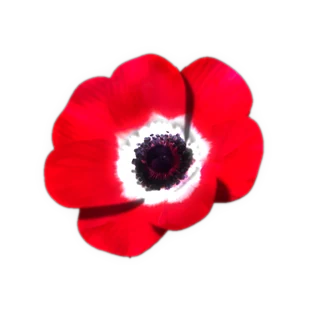
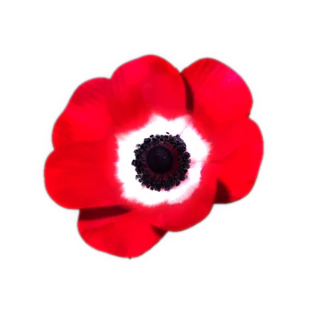
psyche-0.com: the anemone's centres in the real flowers' own colours, the grey ring round the scarlet eyes gone, the white-violet wash complete and its lower petal clean, the lilac stamens and wash finer, the white/red-ring eye kept inside its white ring

diff --git a/assets/anemone.js b/assets/anemone.js
@@ -4,7 +4,7 @@
 (function(){
   var mark=document.querySelector("header.site .bar a.mark");
   if(!mark||document.querySelector(".anemone"))return;
-  var M={"size":320,"na":72,"ext":149,"looks":[{"name":"S_L","er":29.21,"prof":[130.4,129.8,128.3,123.7,107.9,108.8,107.9,106.7,105.5,101.9,97.3,94.3,92.2,89.4,84.3,78.2,71.9,63.7,58.5,54.0,52.8,55.2,59.1,63.4,67.6,70.9,72.8,74.3,75.5,77.3,83.7,93.1,102.5,109.5,113.7,116.4,121.0,123.1,121.0,111.3,97.0,103.4,115.2,119.5,115.8,113.1,111.6,107.9,100.7,96.1,96.7,97.9,97.3,96.1,95.8,97.9,101.0,102.8,101.9,100.4,108.5,115.5,118.5,121.0,123.7,123.7,119.8,113.1,108.2,123.1,128.3,129.8]},{"name":"S_F","er":30.79,"prof":[106.3,99.3,99.9,102.4,103.2,103.2,102.4,99.3,94.7,93.1,99.3,102.4,103.5,104.5,105.0,105.0,104.5,102.4,100.4,96.8,92.6,96.0,99.1,101.7,101.7,101.1,99.3,96.0,92.1,87.4,83.0,89.8,96.5,101.9,104.8,105.0,105.0,105.0,104.3,101.9,97.5,98.8,102.2,103.7,103.5,104.0,104.3,104.5,102.7,100.6,97.5,91.3,86.9,90.5,93.9,96.8,98.3,99.3,98.3,96.0,93.4,89.8,84.9,91.8,100.9,105.8,109.4,112.0,112.5,113.3,112.5,110.7]},{"name":"S_R","er":27.28,"prof":[101.3,98.9,97.9,96.0,94.2,89.2,82.9,74.5,68.9,71.0,72.4,72.6,72.4,72.6,72.9,73.1,72.1,72.4,78.4,85.5,93.7,99.7,102.6,104.5,106.3,109.2,110.8,110.2,107.3,101.0,97.1,108.7,114.2,117.6,117.6,116.8,114.7,108.9,110.2,111.8,112.1,110.2,108.9,110.0,110.8,109.7,106.8,101.8,98.1,102.3,104.5,104.7,106.6,106.8,103.9,98.9,93.7,96.6,107.1,113.9,115.8,116.0,116.3,116.6,114.4,111.6,104.7,98.9,103.9,104.7,104.5,103.1]},{"name":"W_R","er":32.65,"prof":[112.7,115.2,119.1,119.9,119.1,117.9,115.4,109.4,99.9,93.2,99.4,102.7,103.7,102.7,99.2,93.9,90.4,86.9,82.7,77.4,80.4,82.4,84.2,86.7,88.9,89.7,89.2,87.4,86.7,85.9,85.9,84.7,82.9,80.7,75.9,68.2,74.9,82.7,89.2,93.9,97.7,100.2,103.2,103.9,101.9,105.2,110.2,112.4,110.9,108.2,105.4,101.4,94.4,103.9,110.9,113.4,114.7,113.9,113.9,114.7,114.4,107.9,95.4,93.4,101.9,107.9,113.2,116.1,116.9,117.1,118.1,116.1]},{"name":"W_F","er":29.98,"prof":[111.1,108.5,102.4,94.5,97.6,102.4,105.5,105.2,104.5,104.0,101.7,98.1,92.7,86.9,85.4,87.4,88.2,88.7,89.4,89.7,89.7,87.6,84.3,80.0,77.5,86.1,92.7,97.6,100.4,102.9,104.5,105.5,105.0,103.7,102.2,100.4,97.1,90.7,93.8,98.9,102.2,104.2,105.2,105.7,104.0,100.1,100.4,105.2,106.5,106.8,106.8,106.0,103.4,100.9,96.8,89.9,92.2,100.9,105.7,108.0,108.8,109.6,109.6,108.8,106.5,104.0,102.4,107.5,110.1,111.9,112.9,112.6]},{"name":"W_L","er":27.5,"prof":[86.4,86.7,90.1,94.1,94.6,93.5,90.7,84.1,77.6,73.9,72.5,70.8,69.3,67.1,64.5,61.7,64.5,67.1,70.5,73.6,77.9,81.6,83.8,85.3,85.8,86.7,89.0,91.5,94.4,94.9,93.5,87.0,84.7,98.6,114.0,121.4,125.9,125.3,120.8,123.9,124.2,119.7,114.5,111.7,108.6,102.0,93.2,96.6,108.9,113.4,116.5,119.4,119.9,120.2,121.4,122.5,118.8,110.6,114.8,120.8,123.3,122.8,122.2,122.8,122.5,118.8,114.5,116.8,116.2,114.8,110.3,98.1]},{"name":"P_L","er":31.34,"prof":[115.1,108.5,117.6,125.0,129.3,131.0,130.4,128.2,119.0,111.4,102.8,92.0,83.2,80.6,77.8,73.5,70.1,68.4,66.9,65.5,63.8,61.5,60.9,63.2,64.6,67.8,70.9,74.3,79.2,85.7,92.8,98.3,101.4,104.0,107.1,107.1,104.5,101.4,109.4,117.6,123.9,125.6,123.3,116.5,107.4,91.4,101.4,106.5,107.4,107.7,107.4,106.2,104.2,102.0,99.7,99.7,101.4,104.0,106.8,109.4,108.5,107.7,106.5,105.7,103.7,98.8,107.4,113.6,116.5,116.2,115.9,116.2]},{"name":"P_F","er":33.0,"prof":[97.3,98.8,98.3,97.0,96.0,94.0,90.2,85.6,87.1,93.0,97.5,101.6,103.7,104.2,104.7,105.7,104.7,101.9,97.0,91.4,84.6,83.0,89.6,93.0,94.2,95.5,96.3,96.3,95.5,93.5,99.1,104.7,108.0,110.5,112.1,111.8,111.3,109.5,106.2,101.1,94.5,96.3,100.1,101.1,100.9,101.1,101.1,99.1,96.0,91.7,88.4,95.8,100.9,103.4,104.9,107.0,108.2,108.2,106.2,102.6,96.5,100.9,104.7,106.7,108.0,109.5,110.3,109.8,107.5,102.9,95.8,94.7]},{"name":"P_R","er":31.89,"prof":[96.5,92.3,87.7,84.0,80.7,76.8,72.1,69.3,72.6,76.5,80.1,82.7,85.3,88.7,91.0,92.9,93.9,95.4,97.0,97.0,94.4,95.7,99.9,104.3,107.9,110.2,111.8,113.1,112.6,109.2,100.1,79.6,92.9,104.3,112.8,116.7,117.5,117.0,114.4,111.8,108.9,104.8,101.9,103.5,103.7,103.0,101.9,100.9,96.7,90.8,83.5,93.1,103.5,109.5,112.8,112.6,111.8,110.7,109.5,105.0,103.2,110.0,113.3,114.9,115.4,115.4,113.9,108.9,102.2,98.3,99.1,98.6]},{"name":"C_R","er":43.51,"prof":[109.8,109.2,107.1,106.6,106.4,103.7,99.0,91.9,82.5,82.8,84.3,85.4,85.4,85.1,84.9,84.3,82.5,88.8,95.6,102.7,108.2,110.3,111.6,112.4,113.9,113.9,111.9,106.6,95.9,101.6,108.4,112.1,113.2,111.6,110.0,106.6,99.0,100.9,101.6,101.4,99.3,97.2,96.7,97.2,97.7,96.4,93.3,88.5,83.8,88.0,90.6,91.7,92.7,94.8,95.4,93.3,89.6,85.1,84.3,97.2,106.6,110.3,111.6,112.9,113.9,113.7,112.9,109.0,101.9,106.1,108.7,110.3]},{"name":"C_F","er":42.02,"prof":[100.7,93.7,95.7,97.8,98.3,98.3,97.6,95.0,90.8,86.2,93.7,97.8,99.6,100.4,101.2,102.2,102.2,101.7,99.6,97.6,92.9,93.2,97.3,100.9,102.7,102.7,101.7,99.6,96.8,92.4,87.5,90.3,98.1,104.0,107.9,109.7,109.7,109.7,109.5,107.1,102.5,104.0,107.6,108.2,108.2,108.4,108.7,107.9,105.8,103.2,98.6,90.1,91.3,95.0,97.3,99.1,100.1,99.1,96.8,93.7,90.1,85.1,85.7,95.2,101.4,105.1,107.6,108.7,109.2,108.9,107.9,105.6]},{"name":"C_L","er":43.61,"prof":[117.4,118.9,120.4,120.4,119.2,113.5,102.1,106.0,106.3,106.6,105.7,103.9,101.2,100.0,98.8,97.0,92.5,87.4,82.3,75.1,70.3,67.0,70.3,76.0,82.3,86.5,88.6,90.1,91.9,96.1,105.7,115.0,121.6,124.9,127.6,131.5,130.9,124.9,107.2,103.3,115.0,119.5,117.4,112.0,109.0,104.5,96.4,89.2,88.6,88.0,86.8,84.4,82.9,82.6,83.2,85.6,86.5,85.6,83.5,86.8,92.8,97.3,100.3,102.7,105.4,107.5,105.7,102.4,97.3,92.2,108.1,114.7]}],"rot":[15.0,-45.0,45.0,-35.0,-40.0,35.0,-25.0,0.0,30.0,20.0,-15.0,0.0]};
+  var M={"size":320,"na":72,"ext":149,"looks":[{"name":"S_L","er":30.86,"prof":[128.5,129.1,128.2,124.8,114.9,108.5,109.4,108.2,107.0,104.9,101.0,97.3,95.5,93.1,89.2,82.5,76.5,68.9,63.2,58.0,56.2,58.6,62.9,68.0,71.6,74.4,76.2,77.7,78.9,81.3,89.2,98.5,107.3,111.8,115.5,118.8,122.7,123.0,118.2,104.9,94.0,108.8,115.8,117.3,112.8,110.3,107.9,104.0,93.4,93.1,93.7,93.7,93.1,92.2,91.9,94.0,96.7,98.8,97.6,95.8,104.0,110.6,114.3,116.7,119.7,120.6,117.6,112.5,104.6,116.7,125.1,127.9]},{"name":"S_F","er":32.49,"prof":[106.4,100.4,99.1,101.7,102.7,103.2,102.2,99.9,95.5,91.3,99.1,102.7,104.3,104.8,106.1,106.4,106.1,103.8,101.7,98.6,93.9,97.3,100.7,103.2,103.5,102.7,100.7,97.8,93.2,88.5,84.9,91.6,98.6,103.2,105.6,105.8,106.1,105.8,104.5,101.7,96.8,99.9,102.7,103.5,103.2,103.8,104.0,103.5,102.2,99.4,95.7,88.8,86.7,89.8,93.2,95.5,97.0,97.6,96.5,94.2,91.9,88.2,83.6,90.0,98.8,104.5,107.9,110.2,111.5,111.8,111.8,110.5]},{"name":"S_R","er":28.18,"prof":[101.7,99.1,98.1,96.7,94.4,90.4,84.1,76.0,69.4,71.2,72.8,73.9,73.3,73.6,73.9,73.9,73.1,73.3,79.4,87.0,94.9,100.7,103.6,105.4,107.3,109.6,111.2,110.7,107.8,100.2,98.8,109.6,115.1,118.0,117.2,116.5,114.1,107.5,109.9,111.5,111.2,109.1,108.0,109.1,109.6,109.1,106.2,100.4,97.0,101.2,103.3,103.8,105.4,105.9,102.8,98.1,93.3,95.7,106.2,112.8,115.1,115.4,115.7,115.7,114.3,111.5,105.4,99.1,102.8,104.4,104.4,103.3]},{"name":"W_R","er":34.79,"prof":[111.8,113.3,117.5,118.8,118.5,117.3,115.3,110.3,101.8,91.1,97.8,102.3,103.8,104.0,100.3,95.6,92.3,88.6,84.3,78.1,81.6,83.8,85.6,88.1,90.6,91.3,91.3,89.3,88.3,88.1,87.3,86.1,84.1,81.3,76.8,70.4,77.6,85.3,91.6,95.8,98.5,101.5,104.0,103.8,101.3,106.3,110.8,111.8,109.8,107.0,103.8,99.3,92.6,104.8,110.0,112.5,112.8,111.8,111.8,113.0,111.8,105.8,93.3,91.3,99.8,105.8,111.3,114.5,115.3,115.8,116.5,115.3]},{"name":"W_F","er":33.33,"prof":[111.5,109.2,103.9,96.3,98.0,102.9,105.7,106.4,105.9,104.9,102.9,99.3,94.0,88.1,86.6,88.4,89.4,89.9,90.4,90.9,90.4,88.1,85.0,80.2,79.7,88.1,94.2,98.5,101.3,103.6,104.7,105.4,104.9,103.1,101.6,99.6,96.0,89.4,94.0,98.3,101.6,103.6,104.4,104.7,102.9,98.5,99.6,104.4,105.7,105.7,105.7,104.9,102.9,100.1,96.3,88.9,89.9,99.1,104.4,107.2,108.2,108.2,109.0,108.0,106.4,103.9,101.6,106.7,110.0,111.8,112.5,112.8]},{"name":"W_L","er":29.37,"prof":[87.6,85.6,87.9,92.4,94.4,94.1,92.2,87.0,80.5,76.0,73.7,72.9,71.7,69.8,67.2,64.1,65.8,69.2,72.3,76.0,80.2,84.2,86.5,87.9,88.5,88.7,91.3,94.1,96.4,97.0,94.4,87.6,90.5,104.1,116.8,123.1,127.0,124.8,119.7,124.5,123.1,117.1,112.6,110.0,106.0,98.1,89.0,99.0,108.3,111.4,114.6,116.8,117.7,117.4,118.5,119.7,116.0,107.5,111.7,117.7,119.9,119.9,119.4,119.9,119.7,116.8,112.3,114.3,114.3,113.7,110.3,99.8]},{"name":"P_L","er":32.07,"prof":[110.9,104.3,112.0,120.6,124.5,126.8,126.5,125.7,117.4,110.0,102.4,93.5,84.4,79.6,77.3,73.9,70.8,68.8,67.7,66.0,65.1,63.4,61.7,62.6,65.7,68.0,71.4,75.3,80.5,86.2,94.4,100.9,104.3,106.9,110.6,111.7,108.3,105.5,113.4,122.3,127.9,129.7,126.0,118.8,106.9,97.8,106.1,109.8,109.5,109.8,108.9,106.3,103.8,101.5,98.1,99.8,101.5,104.1,106.9,107.8,106.3,104.6,103.8,102.1,98.7,98.1,105.5,110.0,112.6,112.3,112.0,111.7]},{"name":"P_F","er":34.74,"prof":[97.2,96.9,96.1,94.1,92.6,89.2,85.2,80.1,84.9,90.5,94.9,98.2,99.4,100.0,100.7,101.2,100.2,98.2,93.6,89.0,82.6,77.0,83.9,88.2,90.5,92.6,93.8,94.3,94.3,93.6,93.6,101.2,106.3,109.9,111.9,113.2,113.2,112.7,110.4,106.1,100.5,97.4,102.5,104.8,104.5,105.1,105.6,104.3,101.2,96.6,92.8,101.0,106.1,107.9,110.2,111.4,112.7,111.4,108.9,104.5,100.0,105.8,108.4,109.4,110.9,111.7,111.2,109.4,105.6,98.9,92.3,95.4]},{"name":"P_R","er":32.36,"prof":[93.0,89.1,84.9,81.0,78.4,74.5,70.4,66.0,69.1,72.7,76.6,79.7,82.6,85.9,89.3,91.1,92.4,94.0,96.3,97.6,95.8,94.3,99.2,104.1,108.8,111.4,113.7,115.0,115.8,112.7,105.9,87.0,93.7,105.7,115.8,120.2,120.7,120.5,117.9,114.8,111.9,107.0,104.9,106.5,106.2,105.2,104.4,102.0,97.1,89.8,86.5,100.0,107.0,111.6,113.7,112.7,110.6,110.1,107.8,102.0,104.9,109.6,112.2,113.2,113.2,113.2,110.3,104.6,97.6,95.5,95.8,95.3]},{"name":"C_R","er":43.9,"prof":[109.5,108.7,107.4,106.9,105.8,104.0,99.3,93.0,83.6,82.8,84.9,85.9,85.6,85.9,85.6,84.9,82.8,89.1,96.1,103.5,109.0,111.1,112.4,113.1,114.7,114.7,112.6,107.1,96.1,102.9,109.2,112.4,114.2,112.1,110.5,106.6,98.7,101.4,101.9,101.4,99.0,96.9,97.2,97.7,97.4,95.6,93.0,87.5,83.6,87.7,90.4,91.1,92.5,94.0,94.8,91.9,88.3,84.6,83.6,96.4,105.8,109.2,110.8,111.8,113.1,113.1,112.1,109.2,101.9,105.0,108.4,109.2]},{"name":"C_F","er":43.56,"prof":[101.5,95.3,95.8,98.1,99.4,99.7,98.9,96.8,92.7,87.5,95.0,98.9,100.7,102.0,102.8,103.5,103.8,102.5,101.2,98.4,93.7,94.5,98.9,102.5,104.1,103.3,102.3,99.9,96.8,92.4,86.2,91.4,99.1,105.1,108.5,109.2,109.5,109.2,108.5,105.6,100.4,103.5,106.7,106.9,106.9,107.2,107.4,106.4,104.8,101.7,97.1,88.5,90.1,93.2,95.8,97.9,98.9,98.1,96.0,92.7,89.8,85.2,83.4,93.2,100.2,104.1,106.9,108.7,109.2,109.0,108.5,106.7]},{"name":"C_L","er":44.52,"prof":[117.4,118.9,120.4,121.0,119.5,113.8,102.4,106.6,106.9,107.2,106.6,104.8,101.8,100.3,99.7,97.6,93.4,88.0,82.9,76.0,70.9,67.9,70.9,76.9,83.2,87.4,89.5,91.0,92.5,97.6,106.9,115.9,122.2,125.5,128.2,131.5,130.9,124.3,105.4,104.5,115.6,119.2,117.1,111.4,108.1,104.2,94.6,88.3,87.7,87.1,85.9,83.8,82.0,81.7,82.6,84.7,85.6,85.0,82.9,85.3,91.3,97.0,100.0,102.4,104.2,106.6,105.7,102.4,97.6,91.0,107.5,114.7]}],"rot":[15.0,-45.0,45.0,-35.0,-40.0,35.0,-25.0,0.0,30.0,20.0,-15.0,0.0]};
   var LOOKS=M.looks,NA=M.na,S=M.size,ROT=M.rot,N=LOOKS.length;
   var HOLD=30000,TRANS=90000,SEG=HOLD+TRANS,PERIOD=SEG*N;
   var css=document.createElement("style");

diff --git a/map.html b/map.html
@@ -104,6 +104,6 @@ If you don’t win: Signal completed.</pre>
   <span>psyche-0.com</span>
 </div></div></footer>
 <script src="assets/console.js?v=20261026a"></script>
-<script src="assets/anemone.js?v=20261105e" defer></script>
+<script src="assets/anemone.js?v=20261106a" defer></script>
 </body>
 </html>

diff --git a/net.html b/net.html
@@ -219,7 +219,7 @@
   <span>psyche-0.com</span>
 </div></div></footer>
 <script src="assets/console.js?v=20261026a"></script>
-<script src="assets/anemone.js?v=20261105e" defer></script>
+<script src="assets/anemone.js?v=20261106a" defer></script>
 <script>
 (function(){
 var NS="http://www.w3.org/2000/svg";

diff --git a/engage.html b/engage.html
@@ -140,6 +140,6 @@
   <span>psyche-0.com</span>
 </div></div></footer>
 <script src="assets/console.js?v=20261026a"></script>
-<script src="assets/anemone.js?v=20261105e" defer></script>
+<script src="assets/anemone.js?v=20261106a" defer></script>
 </body>
 </html>

diff --git a/about.html b/about.html
@@ -56,6 +56,6 @@
   <span>psyche-0.com</span>
 </div></div></footer>
 <script src="assets/console.js?v=20261026a"></script>
-<script src="assets/anemone.js?v=20261105e" defer></script>
+<script src="assets/anemone.js?v=20261106a" defer></script>
 </body>
 </html>

diff --git a/index.html b/index.html
@@ -63,6 +63,6 @@
   <span>psyche-0.com</span>
 </div></div></footer>
 <script src="assets/console.js?v=20261026a"></script>
-<script src="assets/anemone.js?v=20261105e" defer></script>
+<script src="assets/anemone.js?v=20261106a" defer></script>
 </body>
 </html>

diff --git a/intelligence.html b/intelligence.html
@@ -79,6 +79,6 @@
   <span>psyche-0.com</span>
 </div></div></footer>
 <script src="assets/console.js?v=20261026a"></script>
-<script src="assets/anemone.js?v=20261105e" defer></script>
+<script src="assets/anemone.js?v=20261106a" defer></script>
 </body>
 </html>

diff --git a/missions.html b/missions.html
@@ -72,6 +72,6 @@
   <span>psyche-0.com</span>
 </div></div></footer>
 <script src="assets/console.js?v=20261026a"></script>
-<script src="assets/anemone.js?v=20261105e" defer></script>
+<script src="assets/anemone.js?v=20261106a" defer></script>
 </body>
 </html>

diff --git a/paper.html b/paper.html
@@ -65,6 +65,6 @@
   <span>psyche-0.com</span>
 </div></div></footer>
 <script src="assets/console.js?v=20261026a"></script>
-<script src="assets/anemone.js?v=20261105e" defer></script>
+<script src="assets/anemone.js?v=20261106a" defer></script>
 </body>
 </html>

diff --git a/sqcd-1.html b/sqcd-1.html
@@ -99,6 +99,6 @@
   <span>psyche-0.com</span>
 </div></div></footer>
 <script src="assets/console.js?v=20261026a"></script>
-<script src="assets/anemone.js?v=20261105e" defer></script>
+<script src="assets/anemone.js?v=20261106a" defer></script>
 </body>
 </html>

diff --git a/404.html b/404.html
@@ -32,6 +32,6 @@
     <div class="row-cta"><a class="ghost" href="/">Overview</a></div>
   </div>
 </section>
-<script src="assets/anemone.js?v=20261105e" defer></script>
+<script src="assets/anemone.js?v=20261106a" defer></script>
 </body>
 </html>
